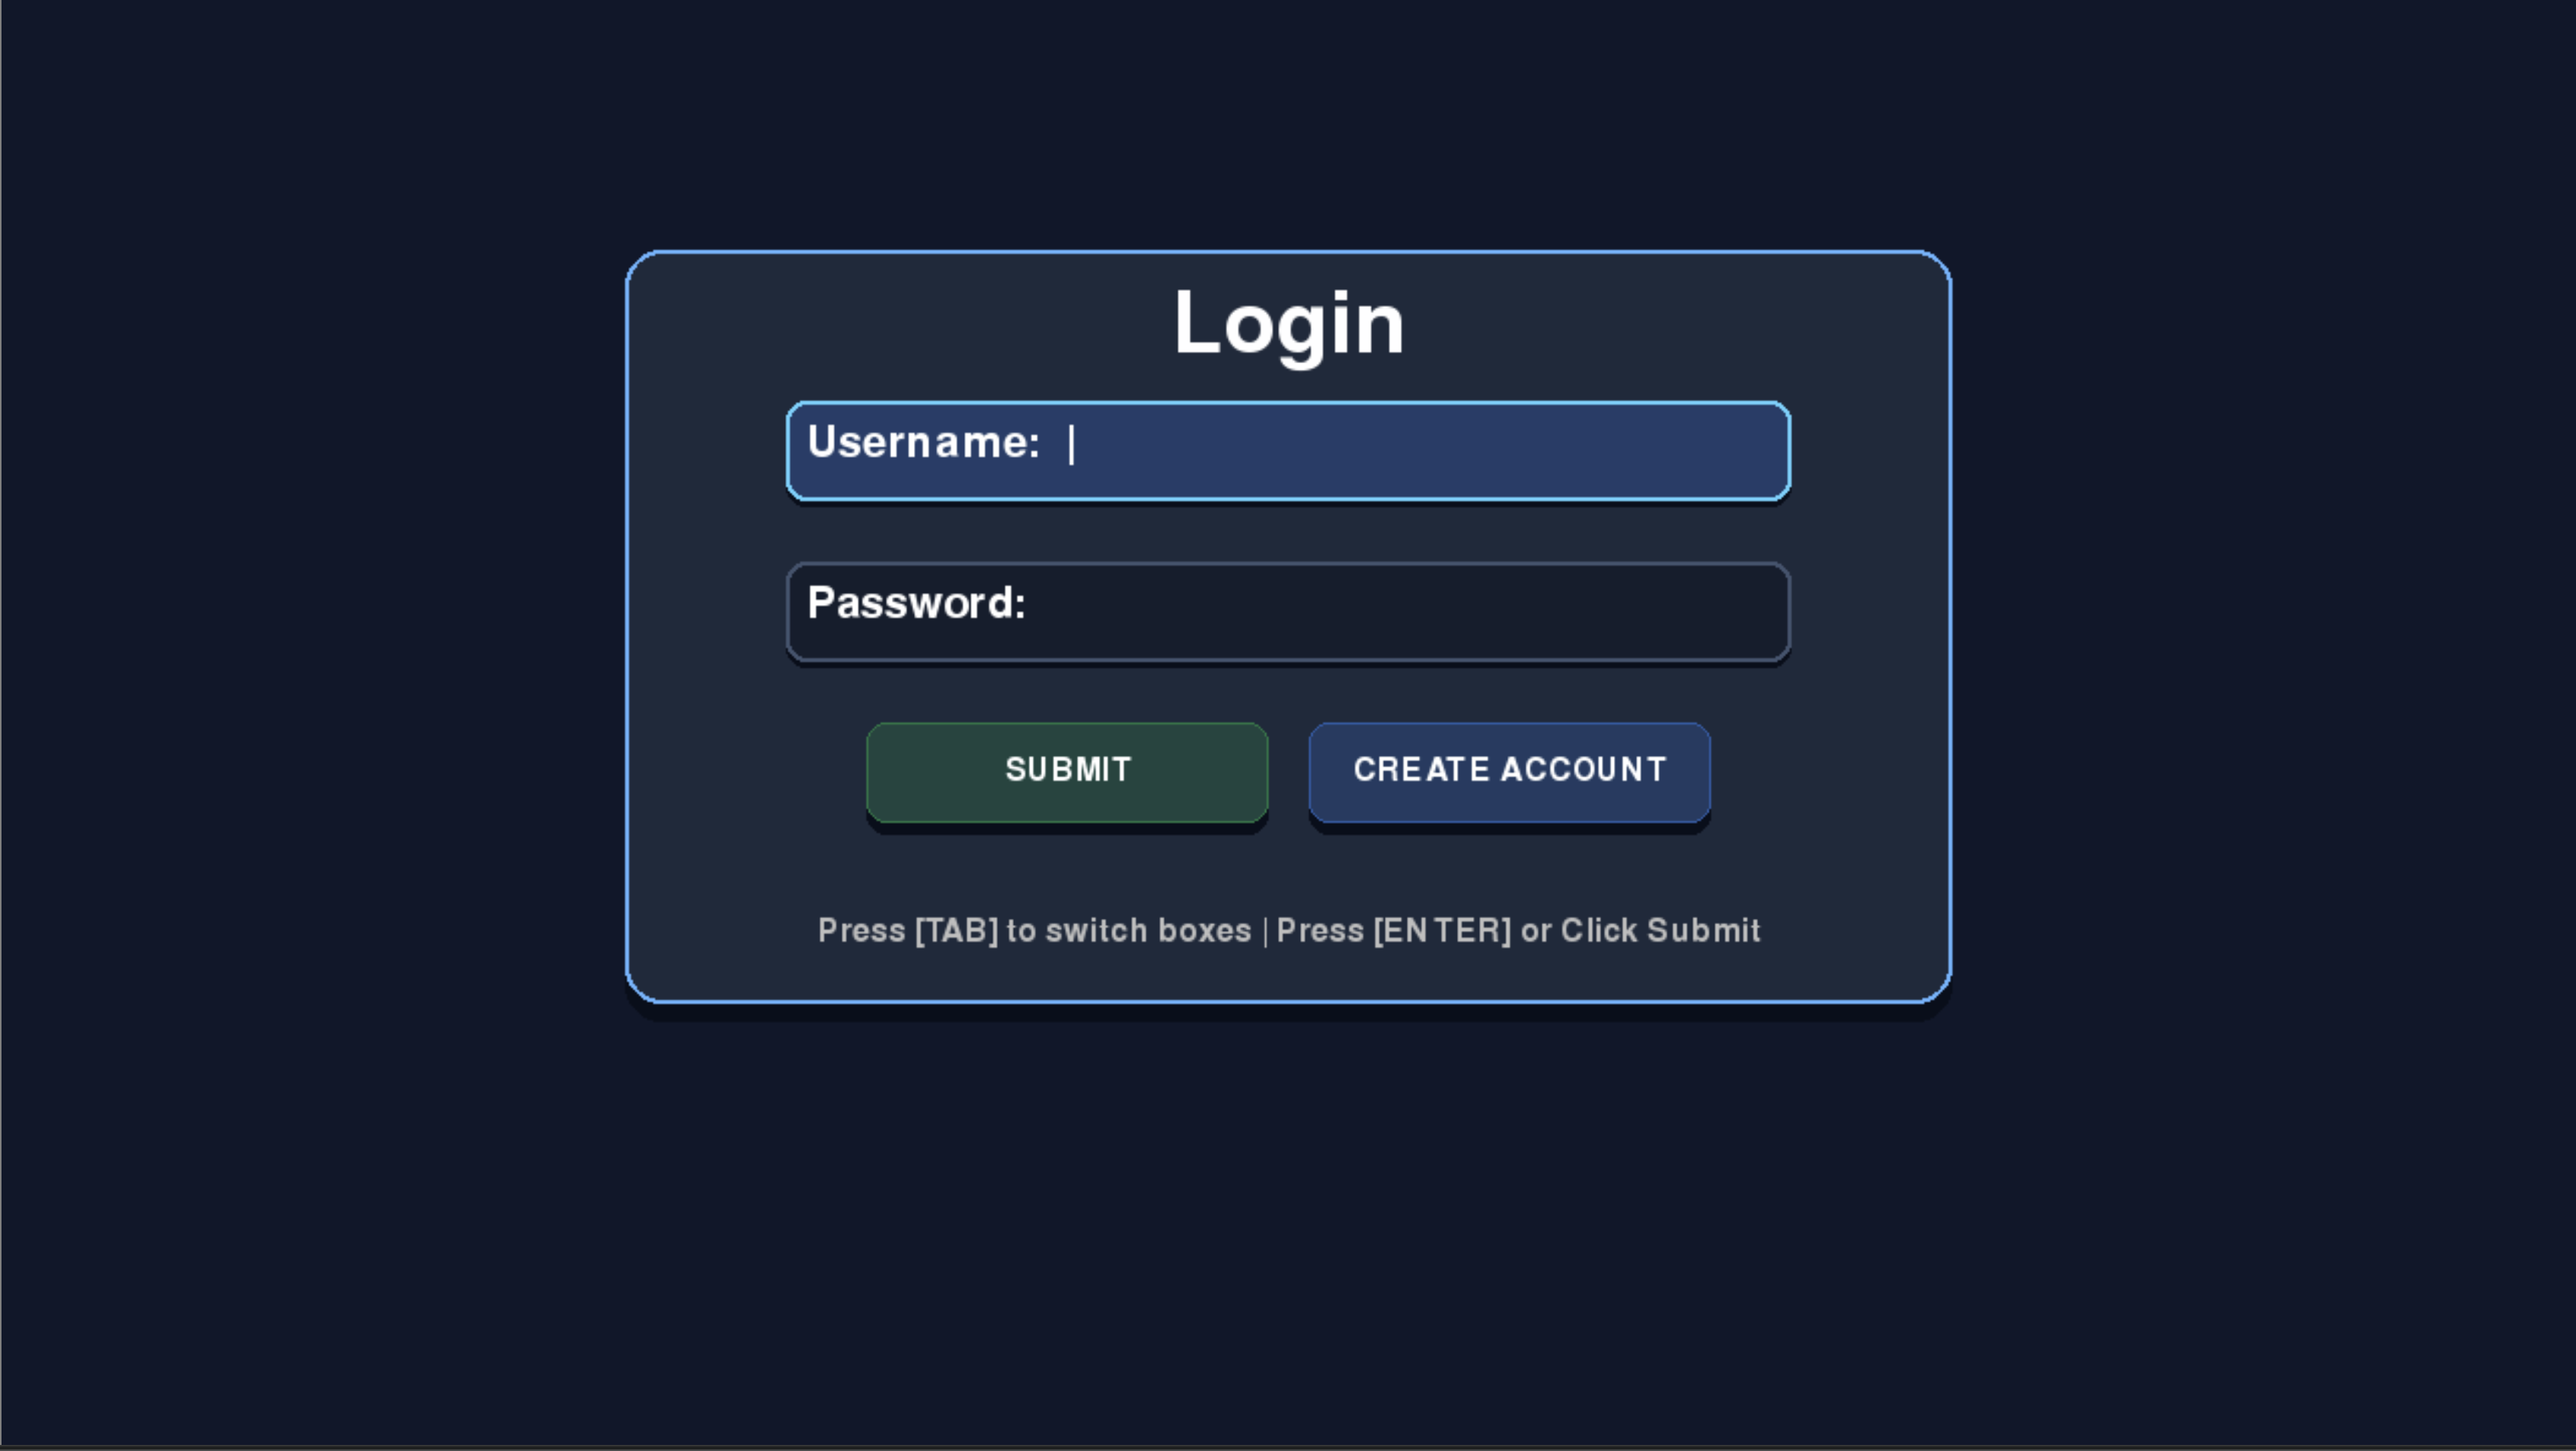
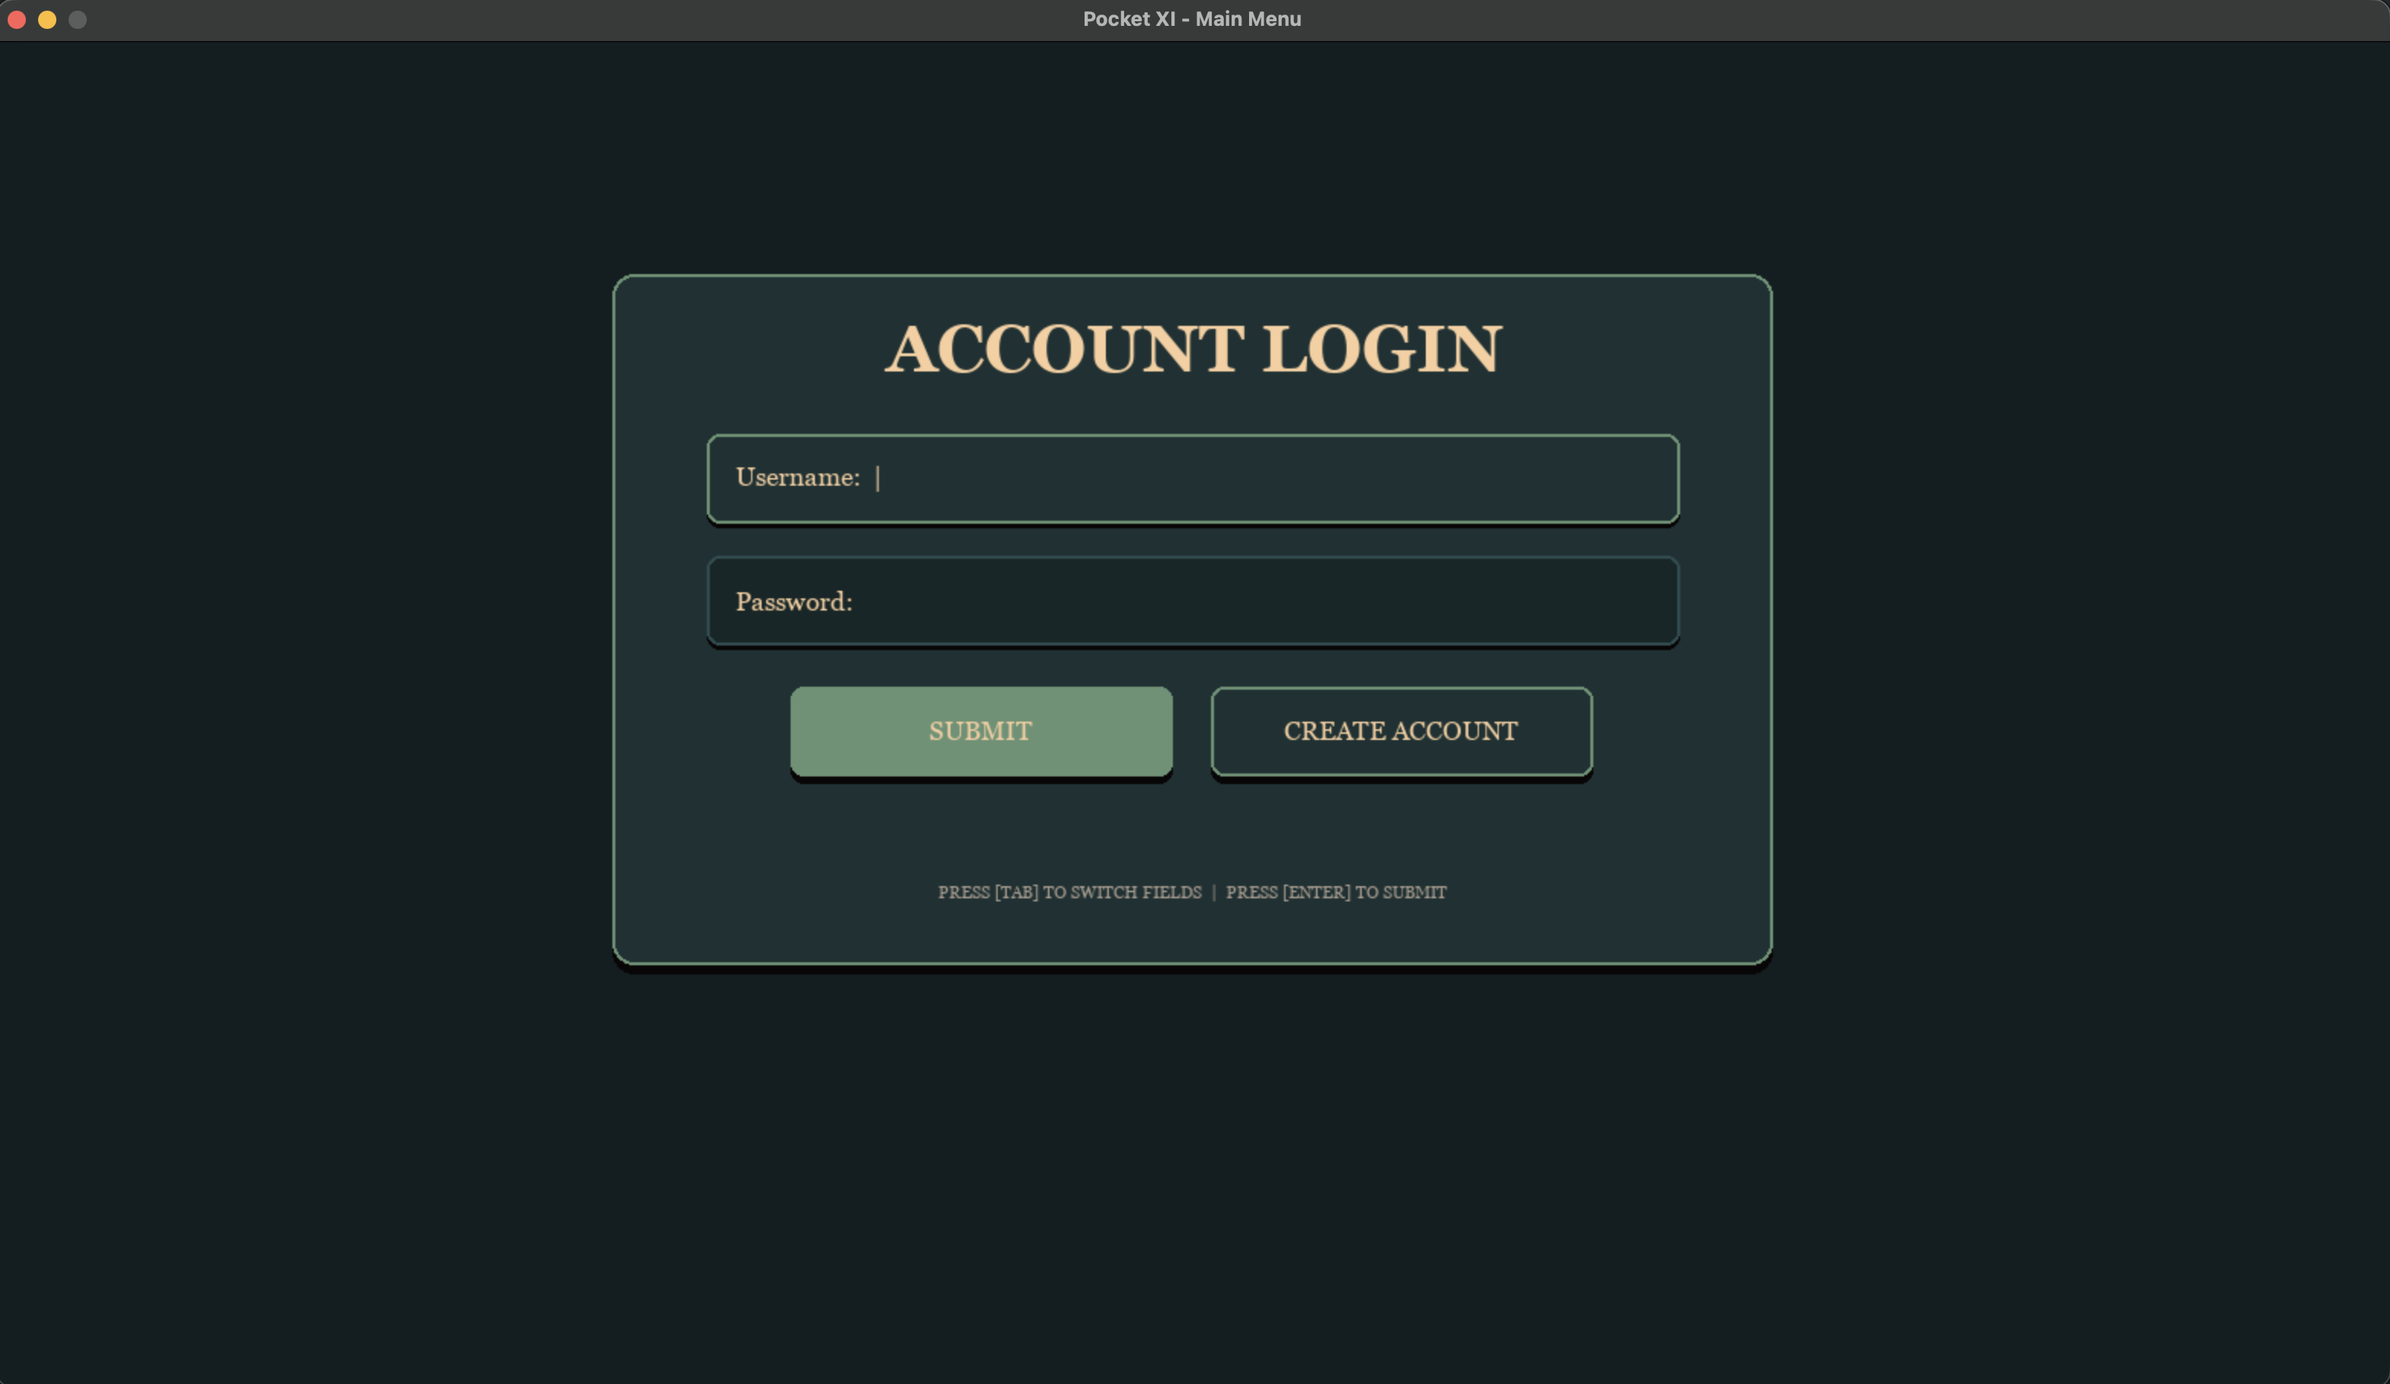
Updated Readme

diff --git a/README.md b/README.md
@@ -16,6 +16,14 @@ Pocket XI is a top-down arcade football game where two players compete on a sing
 
 ![Main Menu](screenshots/menu.png)
 
+### Career History
+
+![Career History](screenshots/career.png)
+
+### Multiplayer
+
+![Multiplayer](screenshots/multiplayer.png)
+
 ### Gameplay & Match
 
 ![Gameplay](screenshots/gameplay.png)
@@ -23,7 +31,7 @@ Pocket XI is a top-down arcade football game where two players compete on a sing
 ## Features
 
 - **Local Multiplayer** - Two players on one keyboard (WASD vs Arrow keys)
-- Online Multiplayer - Two players on two different sessions/devices play against each other
+- **Online Multiplayer** - Two players on two different sessions/devices play against each other
 - **Encrypted User Profiles** - Salted SHA-256 hashing and Fernet symmetric encryption for stored game data
 - **Adaptive AI** - FSM-based AI with heatmap positioning, pattern analysis, and heuristic difficulty scaling
 - **Physics Engine** - Ball friction, Magnus effect curve, collision detection, and momentum-based kicking
@@ -32,6 +40,7 @@ Pocket XI is a top-down arcade football game where two players compete on a sing
 - **Animated Sprites** - Frame-based walking animations with stride and bob effects
 - **Sound Design** - Procedural crowd chants, impact sounds, and ambient effects
 - **Stats Tracking** - Goals, shots, and possession time saved per user profile
+- **Transitions Between Screens** - Fade in/out transitions and loading menus
 
 ## Requirements
 
@@ -51,7 +60,7 @@ pip install pygame cryptography
 python PocketXI.py
 ```
 
-## Hosting
+## Web Player
 
 ```bash
 pip install pygbag
